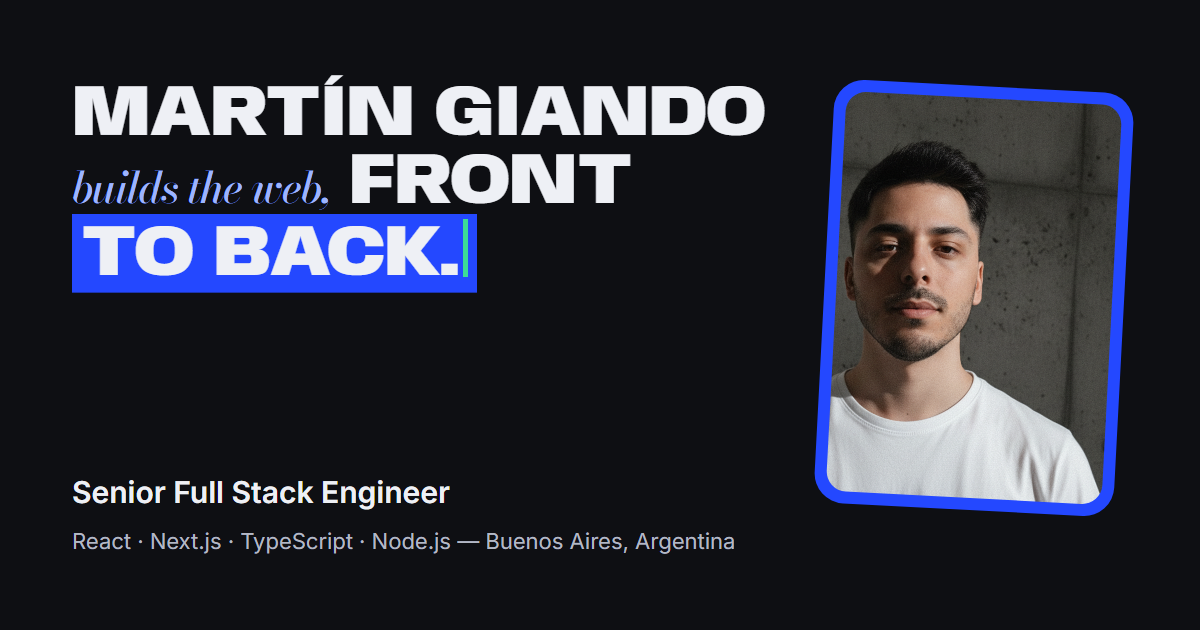
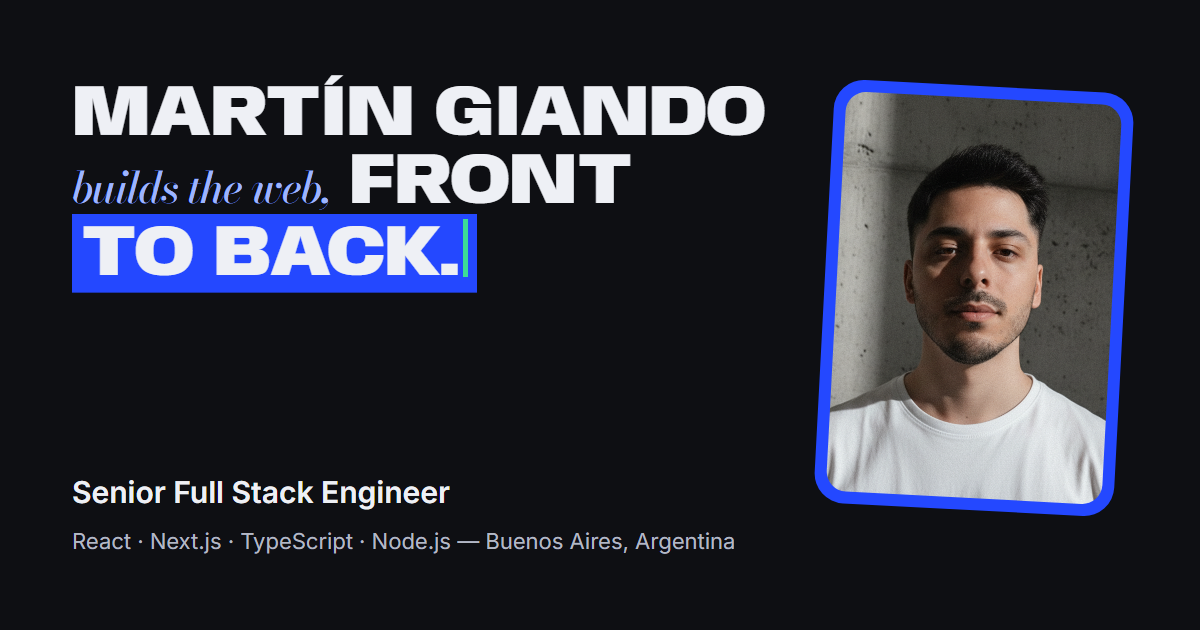
fix: center the profile photo in the about frame and share image

Changed region(s): [[0.6783, 0.1206, 0.925, 0.8143], [0.8942, 0.181, 0.925, 0.3016]]

diff --git a/src/components/sections/about.tsx b/src/components/sections/about.tsx
@@ -48,7 +48,7 @@ export function About() {
               alt={`Photo of ${SITE_CONFIG.name}`}
               fill
               sizes="(max-width: 1024px) 22rem, 24rem"
-              className="object-cover object-[64%_center]"
+              className="object-cover"
             />
           </div>
           <figcaption className="px-2 pt-3 pb-1 text-sm font-semibold text-(--snow)">
